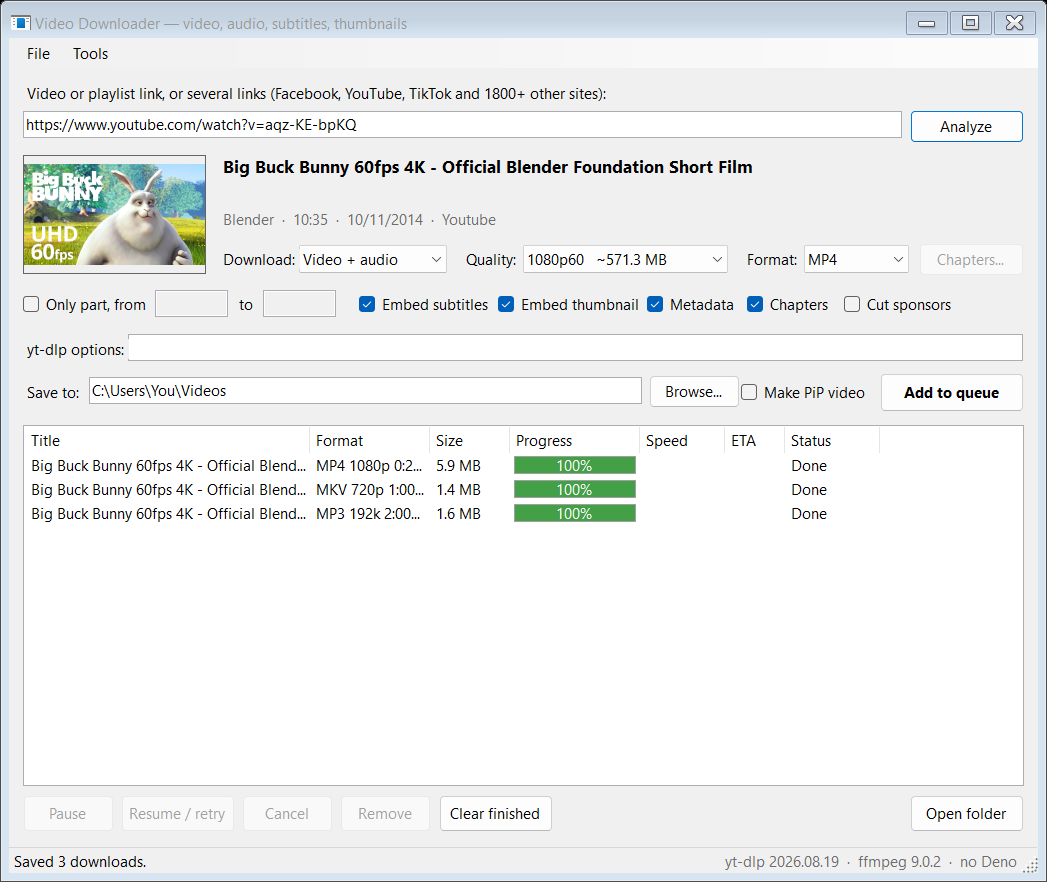
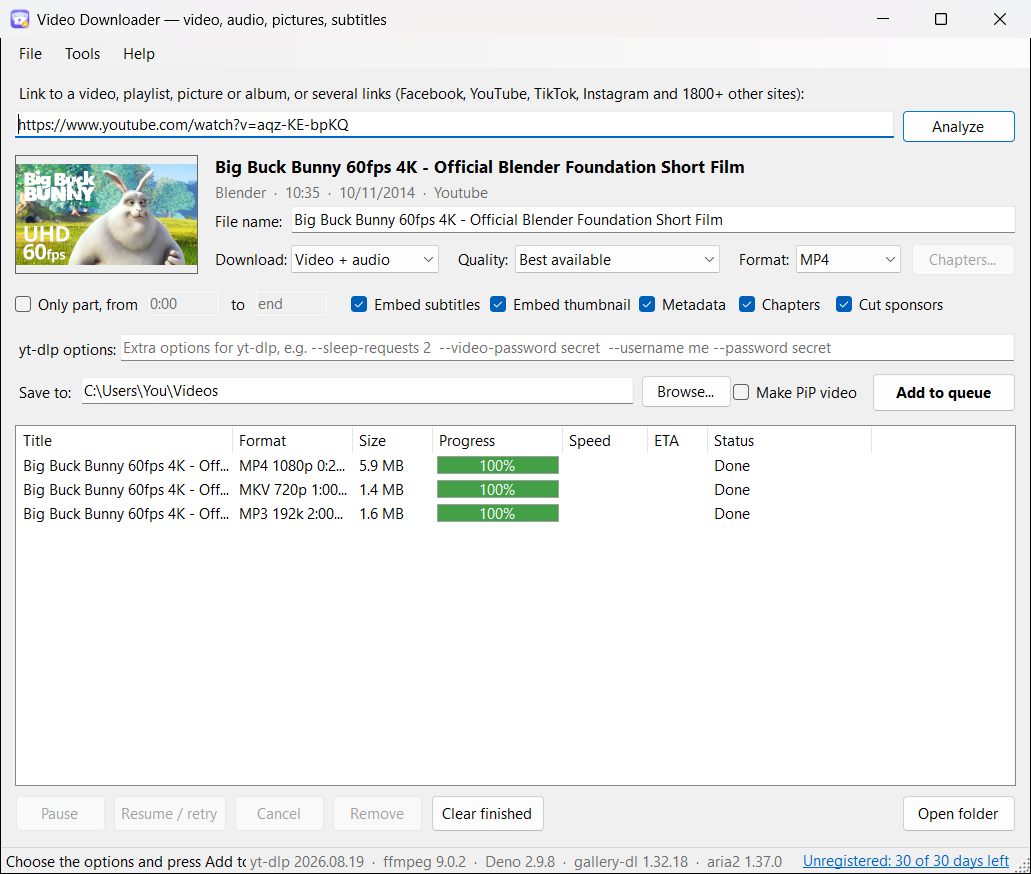
Video Downloader 1.0.0

Changed region(s): [[0.0, 0.0, 1.0, 1.0], [0.9001, 0.278, 0.9622, 0.3089], [0.838, 0.278, 0.8691, 0.3089]]

diff --git a/README.md b/README.md
@@ -1,17 +1,17 @@
 # Video Downloader
 
-**Save videos, music, subtitles and thumbnails from YouTube, Facebook, TikTok and 1800+ other sites, in the quality and format you choose.**
+**Save videos, music, pictures, albums, subtitles and thumbnails from YouTube, Facebook, TikTok, Instagram and 1800+ other sites, in the quality and format you choose.**
 
-Paste a link, press **Analyze** to see the video and its qualities, and press **Add to queue**. Video Downloader does the
+Paste a link, press **Analyze** to see what it has (a video and its qualities, a playlist, or a post's pictures), and press **Add to queue**. Video Downloader does the
 rest: it downloads in the background, several at a time, and tells you when each one is saved.
 
 ![The main window: a video read from its link, the download options, and the queue with three finished downloads. Video: Big Buck Bunny, (c) Blender Foundation, CC BY 3.0](images/main-window.png)
 
 ## What it does
 
-1. **You paste a link.** A video, a whole playlist or channel, or several links at once.
+1. **You paste a link.** A video, a whole playlist or channel, a picture, album or post, or several links at once.
 2. **You choose what to get.** Video with sound, video only, or just the sound as MP3, M4A, FLAC and more, in the
-   quality you want: each quality shows its size.
+   quality you want: each quality shows its size. Or a post's or album's pictures, all of them or only the latest.
 3. **It downloads in the background.** Pause, resume or cancel any download, and add more while others run.
 4. **It keeps itself working.** Sites change often; one click updates the download engine (yt-dlp), its tools and
    Video Downloader itself.
@@ -28,7 +28,7 @@ rest: it downloads in the background, several at a time, and tells you when each
 | **Only the part you want** | Download from one time to another, or pick **Chapters**: some of them as one file, or each to its own file named after it. |
 | **Playlists and channels** | See every video in the list and tick the ones you want. Open the same playlist or channel again later and the videos you already downloaded are greyed and unticked: only the new ones are added. |
 | **Pictures and posts** | Photos and whole posts too, from 300+ sites (Instagram and X photos, Pinterest, Imgur, DeviantArt, Reddit galleries...): install **gallery-dl** from the Tools menu, and links yt-dlp can't read are read with it. Or choose **Pictures and posts** to get every file of a post or profile, or only its latest posts (the last 10, 50... or the last 7, 30 days). When a post has a video and pictures, both are offered. |
-| **Sign in to sites** | For private, friends-only and members-only videos, and YouTube's "confirm you're not a bot": Tools > **Sign in to sites** opens Facebook, YouTube, Instagram, X, TikTok and others in a separate browser window. Sign in there once, and downloads from that site use it. Your own browser isn't touched. |
+| **Sign in to sites** | For private, friends-only and members-only posts and videos, and YouTube's "confirm you're not a bot": Tools > **Sign in to sites** opens Facebook, YouTube, Instagram, X, TikTok and others in a separate browser window. Sign in there once, and downloads from that site use it. Your own browser isn't touched. |
 | **Drag and drop** | Drop a link from your browser, a link shortcut, or a text file of links on the window: it is read at once. |
 | **Faster downloads** | Each file is downloaded over many connections at once with **aria2**, which the app adds by itself: much faster on sites that slow down each connection (Facebook, Bilibili and others). If a site refuses it, that download is tried again without it. Turn it off in Settings > Network. |
 | **Several downloads at once** | Choose how many run at the same time; the rest wait in the queue. Close the app whenever you like: the queue comes back next time, and unfinished downloads carry on where they stopped. |
@@ -40,9 +40,9 @@ rest: it downloads in the background, several at a time, and tells you when each
 | **Thumbnails and subtitles on their own** | Tools > **Thumbnail saver** saves a video's cover picture, biggest first; **Subtitle extractor** saves its subtitles as SRT, VTT, ASS or LRC. |
 | **Live chat archiver** | Tools > **Live chat archiver** saves a YouTube live stream's or premiere's chat replay: every message with its time, author, Super Chats and memberships. Filter it by words (or a regular expression), and save it as CSV for Excel or JSON. Double-click a message to watch that moment. |
 | **Bilingual subtitles** | In the Subtitle extractor, tick two languages and **Bilingual**: one file shows each line in both, the language you choose on top, the other under it. For learning a language, or watching together. |
-| **Browser extension** | In Chrome, Edge or Brave, one click on the extension's button sends the video you're watching to the app (a blue arrow on the button shows when the page is a video), signed in as you are in the browser. Or right-click a link or a video and choose **Download with Video Downloader**. |
-| **Copy a link, it's read** | Turn on Tools > **Watch the clipboard for links**: copy a video's address in your browser and it's ready to download. |
-| **Videos that need a sign-in** | Send them with the browser extension, which brings your sign-in along. Or use the cookies of the browser you're signed in with (Firefox), or a cookies file, for videos only members or friends can see. |
+| **Browser extension** | In Chrome, Edge or Brave, one click on the extension's button sends the page you're on to the app, a video, pictures or a post (a blue arrow on the button shows when the page is a video), signed in as you are in the browser. Or right-click a link, a video or a picture and choose **Download with Video Downloader**. |
+| **Copy a link, it's read** | Turn on Tools > **Watch the clipboard for links**: copy a video's or post's address in your browser and it's ready to download. |
+| **Posts and videos that need a sign-in** | Send them with the browser extension, which brings your sign-in along. Or use the cookies of the browser you're signed in with (Firefox), or a cookies file, for what only members or friends can see. |
 | **Its own log** | Right-click a download and choose **Show log** to see exactly what happened, to fix a problem or ask for help. |
 | **Light or dark** | Follows your Windows theme, or choose one in Settings. |
 
@@ -54,7 +54,7 @@ For one video, the last entry of the Quality list, **Choose streams...**, opens 
 
 Pick a video stream and an audio stream, and press **Use these**. The pick shows in the Quality list and in the queue.
 
-## Sending videos from your browser
+## Sending links from your browser
 
 The extension for Chrome, Edge and Brave comes with the app. Add it once:
 
@@ -64,11 +64,11 @@ The extension for Chrome, Edge and Brave comes with the app. Add it once:
 3. Press **Load unpacked** and choose that folder (paste its path in the folder box).
 4. Pin it: press the puzzle piece next to the address bar, then the pin next to Video Downloader.
 
-Then, on a video's page, click the Video Downloader button: the app opens (or comes to the front) with the video read,
-ready to choose the quality and press **Add to queue**. A tick on the button says the video was sent. Right-click a
-link, or a video playing in the page, for **Download with Video Downloader**.
+Then, on a video's or post's page, click the Video Downloader button: the app opens (or comes to the front) with the
+link read, ready to choose the quality and press **Add to queue**. A tick on the button says the link was sent.
+Right-click a link, a video playing in the page or a picture for **Download with Video Downloader**.
 
-Videos you can only see signed in (members-only, private or age-restricted) work too: the extension sends your
+Posts and videos you can only see signed in (members-only, private or age-restricted) work too: the extension sends your
 browser's cookies for that site with the link, so the app is signed in as you are. When you add the extension, the
 browser warns that it can "read and change all your data on all websites": that is what reading a site's cookies
 needs. It sends nothing until you click, and then only the link and that one site's cookies, only to the app on your
@@ -77,7 +77,7 @@ PC. The app keeps them while it is open, uses them for that site only, and delet
 ## Free trial
 
 Try everything free for **30 days**, no key needed and nothing limited. The status bar shows how many days are left.
-After that, Video Downloader still reads links, but downloading (videos, music, subtitles, thumbnails and chats) needs
+After that, Video Downloader still reads links, but downloading (videos, music, pictures, subtitles, thumbnails and chats) needs
 a license key.
 
 ## Buying a license
@@ -111,7 +111,7 @@ gives fewer qualities, often not the best. You can also add it later from the To
 Download only what you have the right to: your own videos, videos their owner lets you download, or what the law lets
 you copy. Each site has its own terms. See the license agreement shown during setup.
 
-Video Downloader uses yt-dlp and FFmpeg, made by others and free to use under their own licenses: see
+Video Downloader uses yt-dlp, FFmpeg, Deno, gallery-dl and aria2, made by others and free to use under their own licenses: see
 THIRD-PARTY-NOTICES.txt in the folder the app is installed in. FFmpeg is gyan.dev's build, the one ffmpeg.org links
 to for Windows.
 

diff --git a/PRIVACY.md b/PRIVACY.md
@@ -10,14 +10,16 @@ with anyone.
 
 ## What the app connects to
 
-- **The sites you download from.** When you analyze or download a link, the app (through yt-dlp) connects to that
-  site, as your browser would, to read the video and download it. Each site has its own privacy policy.
+- **The sites you download from.** When you analyze or download a link, the app (through yt-dlp, or gallery-dl for
+  pictures and posts) connects to that site, as your browser would, to read the video, pictures or post and download
+  them. Each site has its own privacy policy.
 - **SponsorBlock**, only when you tick **Cut sponsors** or make a PiP video of a YouTube video: the app sends the
   video's ID to `sponsor.ajay.app` to learn which parts viewers marked as sponsors. Nothing else is sent.
-- **Its tools' download sites**, to download and update what it needs: GitHub (yt-dlp, and ffmpeg from gyan.dev's
-  GitHub mirror), www.gyan.dev (ffmpeg, when GitHub can't be read) and dl.deno.land (Deno, for YouTube). They only
-  learn that a copy is being downloaded, as for any download from your browser. Turn off update checks in Settings if
-  you don't want the app to check for new versions when it starts.
+- **Its tools' download sites**, to download and update what it needs: GitHub (yt-dlp, aria2, ffmpeg from gyan.dev's
+  GitHub mirror, and new versions of Video Downloader itself), www.gyan.dev (ffmpeg, when GitHub can't be read),
+  dl.deno.land (Deno, for YouTube) and codeberg.org (gallery-dl, for pictures and posts). They only learn that a copy
+  is being downloaded, as for any download from your browser. Turn off update checks in Settings if you don't want the
+  app to check for new versions when it starts.
 - **www.google.com, or github.com**, to learn today's date for the free days and the license (from the date on the
   answer, not your PC's clock). This is a plain request for the home page's headers: nothing about you, your license
   or your PC is sent.
@@ -40,8 +42,12 @@ of the site you click on.
 
 ## Cookies
 
-Videos that need a sign-in can be downloaded with your cookies, only if you choose so:
+Posts and videos that need a sign-in can be downloaded with your cookies, only if you choose so:
 
+- **From Tools > Sign in to sites:** the site opens in a separate Edge, Chrome or Brave window, with a new, empty
+  profile made for it: your own browser's profile, history and cookies aren't read. Once you have signed in, that
+  site's cookies are saved in `%APPDATA%\VideoDownloader\sign-ins`, and the window's profile is deleted. The same
+  window lets you remove a saved sign-in.
 - **From the browser extension:** the cookies it sends (above) are kept in
   `%LOCALAPPDATA%\VideoDownloader\browser-cookies` while the app is open, and deleted when you close it. Each time
   you send a link from a site, that site's cookies replace the ones kept for it.
@@ -50,7 +56,7 @@ Videos that need a sign-in can be downloaded with your cookies, only if you choo
 - **From a file, or pasted, in Settings:** the same, from the cookies.txt file you choose; pasted cookies are kept in
   `%APPDATA%\VideoDownloader\cookies.txt`.
 
-All of them are sent only to the site they belong to, as your browser would send them. Cookies are never sent to us
+All of them are given to yt-dlp and gallery-dl, and sent only to the site they belong to, as your browser would send them. Cookies are never sent to us
 or anywhere else.
 
 ## Your license
@@ -65,8 +71,15 @@ key and support.
 
 Everything stays on your PC:
 
-- Your settings, in `%APPDATA%\VideoDownloader\settings.json`, and pasted cookies (above).
-- ffmpeg and Deno, in `%LOCALAPPDATA%\VideoDownloader`, and the extension's cookies while the app is open (above).
+- Your settings, in `%APPDATA%\VideoDownloader\settings.json`, pasted cookies and the sites you signed in to
+  (above).
+- The list of what you downloaded (each one's site and ID, e.g. `youtube dQw4w9WgXcQ`), in
+  `%APPDATA%\VideoDownloader\downloaded.txt`, so a playlist or channel opened again shows which ones you already have.
+- The download queue (each download's link, title, options and where it was saved), in
+  `%APPDATA%\VideoDownloader\queue.json`, so it comes back the next time the app starts. Remove downloads from the
+  list, or press Clear finished, to take them out of it.
+- ffmpeg, Deno, gallery-dl and aria2, in `%LOCALAPPDATA%\VideoDownloader`, and the extension's cookies while the app
+  is open (above).
 - Your license key, in `%LOCALAPPDATA%\VideoDownloader\license.dat`, encrypted for your Windows user.
 - Your downloads, in the folder you choose.
 
@@ -77,9 +90,10 @@ A download's log stays in the app's memory and is gone when you close it, unless
 1. Remove the extension, if you added it: in the browser, open `chrome://extensions` (`edge://extensions`,
    `brave://extensions`) and press **Remove** on Video Downloader.
 2. Uninstall Video Downloader in Windows (**Settings > Apps**).
-3. Delete the folders `%APPDATA%\VideoDownloader` (settings and pasted cookies) and `%LOCALAPPDATA%\VideoDownloader`
-   (ffmpeg, Deno, your license key, and the extension's cookies if the app didn't close normally). Uninstalling leaves
-   them, so a reinstall keeps your settings and license.
+3. Delete the folders `%APPDATA%\VideoDownloader` (settings, the queue, the list of what you downloaded, pasted
+   cookies and sign-ins) and `%LOCALAPPDATA%\VideoDownloader` (ffmpeg, Deno, gallery-dl, aria2, your license key, and
+   the extension's cookies if the app didn't close normally). Uninstalling leaves them, so a reinstall keeps your
+   settings and license.
 
 Your downloads stay in their folder until you delete them.
 
